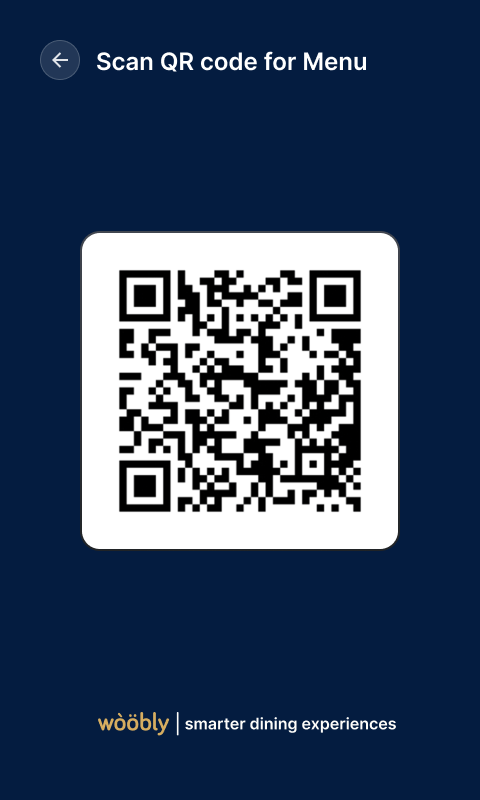
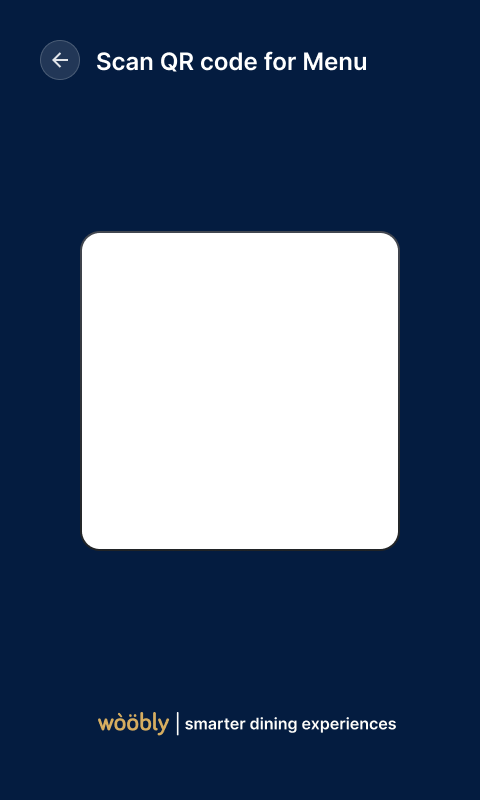
ADD: qr codes and everything from server

Changed region(s): [[0.25, 0.3125, 0.75, 0.6562]]

diff --git a/qt-app/main.py b/qt-app/main.py
@@ -8,13 +8,14 @@ import os
 import signal
 import urllib.request
 import requests
-from api import startHangout,callWaiter, waiterArrived, serviceDelayed, notifyExperience, addMultipleRatings, fetchTableId
+from api import startHangout,callWaiter, waiterArrived, serviceDelayed, notifyExperience, addMultipleRatings, fetchTableId, getConfig
 import threading
 from subprocess import Popen
 import json
 import time
 from datetime import datetime
 from multiThread import runInNewThread
+from serial import getserial
 
 ENV=os.environ.get('ENV')
 
@@ -27,8 +28,21 @@ hangoutId=None
 callNumber = 1
 serviceCallStartTime=None
 thr=None
-table="TBCCH-01"
+table=None
 waiterId=None
+serialNumber=getserial()
+pixmap=None
+
+def loadConfig():
+    global storage, table
+    try:
+        config = getConfig(serialNumber)
+        print("Config Loaded", config)
+        storage = config
+        table = storage["tableId"]
+        saveStorage()
+    except:
+        print("Failed to load config")
 
 def setupKeyboard(self):
     self.key1.clicked.connect(lambda: self.onKey("1"))
@@ -46,16 +60,13 @@ def setupKeyboard(self):
 def getTableId ():
     global table
     tableId = table
+    print("getTableId")
     print(storage)
-    if "table" in storage and storage["table"] != None:
-        tableId = storage["table"]
+    if "tableId" in storage and storage["tableId"] != None:
+        tableId = storage["tableId"]
     else:
-        try:
-            tableId = fetchTableId()
-        except:
-            tableId = table
-        storage["table"] = tableId
-        saveStorage()
+        loadConfig()
+        tableId = storage["tableId"]
     table = tableId
     return tableId
 
@@ -114,6 +125,26 @@ def navigateGoBack():
 def navigateToRestart():
         mainStackedWidget.setCurrentIndex(0)
 
+def loadLogoPixmap():
+    global pixmap
+    if pixmap != None:
+        return pixmap
+    url = 'https://i.ibb.co/vh9pSWS/qrcode.png'
+    if "restaurantLogo" in storage:
+        url = storage["restaurantLogo"] 
+    
+    data = urllib.request.urlopen(url).read()
+    image = QImage()
+    image.loadFromData(data)
+    pixmap = QPixmap(image)
+    return pixmap
+
+def renderLogo(self, key="logo", width=220, height=220):
+    pixmap = loadLogoPixmap()
+    self.__dict__[key].setPixmap(pixmap)
+
+
+
 class SplashScreen(QDialog):
     def __init__(self):
         super(SplashScreen, self).__init__()
@@ -138,6 +169,10 @@ class ReserveScreen(QDialog):
         super(ReserveScreen, self).__init__()
         loadUi("ui/21ReserveScreen.ui", self)
         self.goToNextButton.clicked.connect(self.navigateToWelcome)
+        runInNewThread(self, self.loadLogo)
+    
+    def loadLogo(self):
+        renderLogo(self)
 
     def navigateToWelcome(self):
         navigateToScreen(WaiterPinScreen)
@@ -166,7 +201,14 @@ class IdleLockScreen(QDialog):
         loadUi("ui/05IdleLockScreen.ui", self)
         self.goToNextButton.clicked.connect(self.navigateToWaiterPinScreen)
         self.appCloseButton.clicked.connect(mainStackedWidget.close)
-    
+        runInNewThread(self, self.loadConfigAndLogo)
+
+    def loadConfigAndLogo(self):
+        loadConfig()
+        # pixmap = loadLogoPixmap()
+        renderLogo(self, width=220, height=220)
+        # self.logo.setPixmap(pixmap.scaled(220, 220))
+
     def navigateToWaiterPinScreen(self):
         navigateToScreen(WaiterPinScreen)
 
@@ -219,6 +261,31 @@ class WaiterPinScreen(QDialog):
     def navigateToWaiterMenuScreen(self):
         navigateToScreen(WaiterMenuScreen)
 
+class AboutScreen(QDialog):
+    def __init__(self):
+        super(AboutScreen, self).__init__()
+        loadUi("ui/24AboutScreen.ui", self)
+        self.refreshButton.clicked.connect(self.refresh)
+        self.backButton.clicked.connect(navigateGoBack)
+        self.renderLabels()
+    
+    def renderLabels(self):
+        if "restauranName" in storage:
+            self.restaurantLabel.setText(storage["restauranName"])
+        else:
+            self.restaurantLabel.setText("Assign restaurant and table")
+        self.tableLabel.setText(table)
+        self.serialLabel.setText(serialNumber)
+        self.brightnessLabel.setText(str(storage["podBrightness"]))
+        
+    
+    def refresh(self):
+        # TODO: run in new thread
+        loadConfig()
+        self.renderLabels()
+
+        
+
 class ConfirmTable(QDialog):
     def __init__(self):
         super(ConfirmTable, self).__init__()
@@ -235,13 +302,16 @@ class WaiterMenuScreen(QDialog):
         loadUi("ui/071WaiterMenuScreen.ui", self)
         self.goToNextButton.clicked.connect(self.navigateToChooseNumberOfGuests)
         self.reserveButton.clicked.connect(self.navigateToReserveScreen)
-        self.clearTableButton.clicked.connect(clearStorage)
+        self.clearTableButton.clicked.connect(self.navigateToAboutScreen)
     
     def navigateToChooseNumberOfGuests(self):
         navigateToScreen(ChooseNumberOfGuests)
 
     def navigateToReserveScreen(self):
         navigateToScreen(ReserveScreen)
+    
+    def navigateToAboutScreen(self):
+        navigateToScreen(AboutScreen)
 
 class ChooseNumberOfGuests(QDialog):
     guestCount=""
@@ -365,11 +435,14 @@ class DinerActionMenuScreen(QDialog):
     
     def loadQRCode(self):
         url = 'https://i.ibb.co/vh9pSWS/qrcode.png'
+        if "menuQr" in storage:
+           url = storage["menuQr"] 
+        
         data = urllib.request.urlopen(url).read()
         image = QImage()
         image.loadFromData(data)
         pixmap = QPixmap(image)
-        self.qrimage.setPixmap(pixmap.scaled(200, 200))
+        self.qrimage.setPixmap(pixmap.scaled(250, 250))
 
 
     def navigateToCheckoutScreen(self):
@@ -501,12 +574,24 @@ class PayQRScreen(QDialog):
         loadUi("ui/18PayQRScreen.ui", self)
         self.backButton.clicked.connect(self.navigateBack)
         self.goToNextButton.clicked.connect(self.navigateToThankYouScreen)
+        runInNewThread(self, self.loadQRCode)
     
     def navigateBack(self):
         navigateGoBack()
     
     def navigateToThankYouScreen(self):
         navigateToScreen(ThankYouScreen)
+
+    def loadQRCode(self):
+        url = 'https://i.ibb.co/vh9pSWS/qrcode.png'
+        if "upiQr" in storage:
+           url = storage["upiQr"] 
+        
+        data = urllib.request.urlopen(url).read()
+        image = QImage()
+        image.loadFromData(data)
+        pixmap = QPixmap(image)
+        self.qrimage.setPixmap(pixmap.scaled(230, 230))
 
 class FeedbackScreen(QDialog):
     buttonStyle = "border-style: outset;border-width: 2px;border-radius: 35px;padding: 4px;color: white;font-size: 24px;"
@@ -566,7 +651,10 @@ class ThankYouScreen(QDialog):
         super(ThankYouScreen, self).__init__()
         loadUi("ui/20ThankYouScreen.ui", self)
         self.goToNextButton.clicked.connect(self.navigateToIdleLockScreen)
-
+        runInNewThread(self, self.loadLogo)
+    
+    def loadLogo(self):
+        renderLogo(self)
     
     def navigateToIdleLockScreen(self):
         navigateToScreen(IdleLockScreen)

diff --git a/qt-app/api.py b/qt-app/api.py
@@ -2,6 +2,13 @@ import requests
 
 BASE_URL = "https://api.mywoobly.com"
 
+def getConfig(serialNumber):
+    print("getting config...")
+    response = requests.get(BASE_URL + "/devices/"+serialNumber+"/config")
+    print(response)
+    config = response.json().get("data")
+    return config
+
 
 def startHangout(table, guestCount, waiterId, hangoutId):
     print("startHangout",table, guestCount, waiterId, hangoutId)
